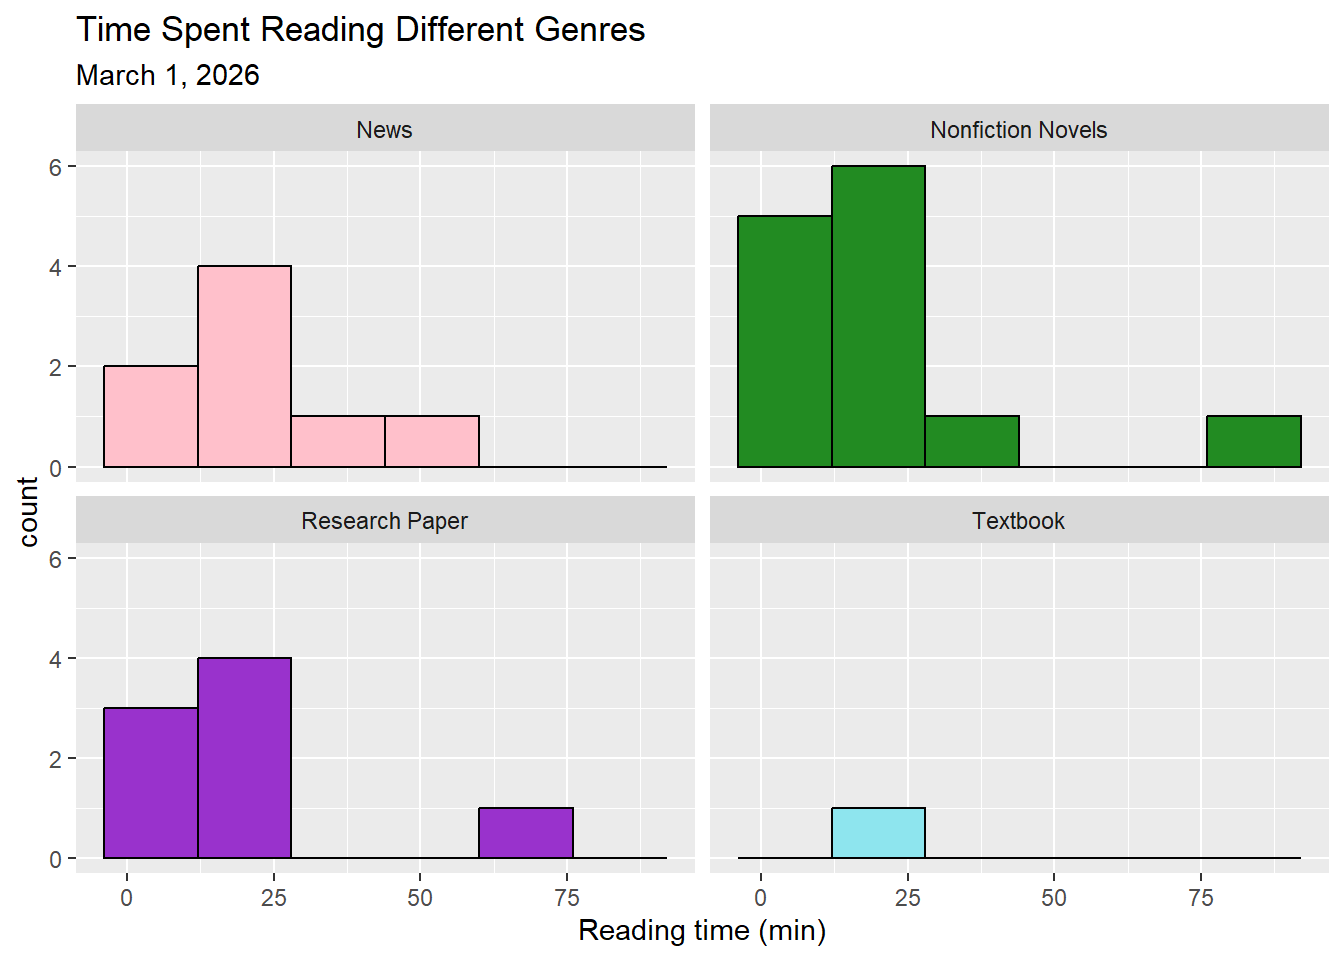
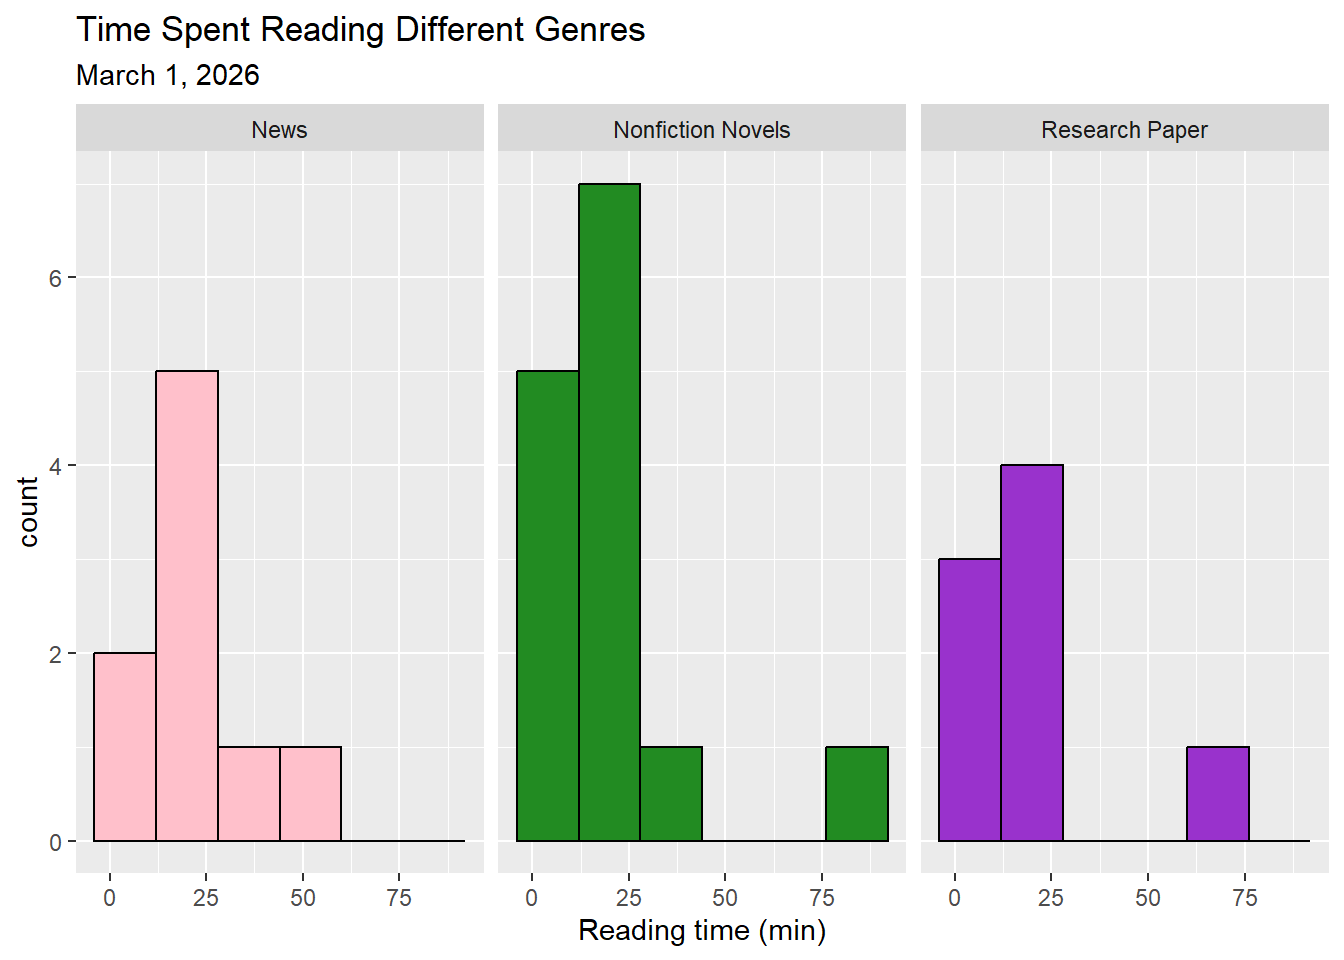
inserted sketch of affective data vis

diff --git a/code/03_homework_193DS.html b/code/03_homework_193DS.html
@@ -152,7 +152,7 @@ window.Quarto = {
 <span id="cb1-6"><a href="#cb1-6" aria-hidden="true" tabindex="-1"></a>salinity <span class="ot">&lt;-</span> <span class="fu">read.csv</span>( <span class="co">#read in pickleweed data using here function</span></span>
 <span id="cb1-7"><a href="#cb1-7" aria-hidden="true" tabindex="-1"></a>  <span class="fu">here</span>(<span class="st">"data"</span>,<span class="st">"salinity-pickleweed.csv"</span>))</span>
 <span id="cb1-8"><a href="#cb1-8" aria-hidden="true" tabindex="-1"></a>reading_data <span class="ot">&lt;-</span> <span class="fu">read.csv</span>( <span class="co">#read in personal data using here function</span></span>
-<span id="cb1-9"><a href="#cb1-9" aria-hidden="true" tabindex="-1"></a>  <span class="fu">here</span>(<span class="st">"data"</span>, <span class="st">"reading_data_envs-193DS.csv"</span>)</span>
+<span id="cb1-9"><a href="#cb1-9" aria-hidden="true" tabindex="-1"></a>  <span class="fu">here</span>(<span class="st">"data"</span>, <span class="st">"time_spent_reading.csv"</span>)</span>
 <span id="cb1-10"><a href="#cb1-10" aria-hidden="true" tabindex="-1"></a>)</span></code></pre></div><button title="Copy to Clipboard" class="code-copy-button"><i class="bi"></i></button></div>
 </div>
 <section id="part-2-problems" class="level1">
@@ -329,7 +329,7 @@ sample estimates:
 <span id="cb12-6"><a href="#cb12-6" aria-hidden="true" tabindex="-1"></a>  <span class="fu">geom_point</span>(<span class="at">size =</span> <span class="dv">3</span>) <span class="sc">+</span> <span class="co">#add in individual data and adjust size</span></span>
 <span id="cb12-7"><a href="#cb12-7" aria-hidden="true" tabindex="-1"></a>  <span class="fu">labs</span>(<span class="at">title =</span> <span class="st">"Reading session per number of pages"</span>, <span class="co">#add title</span></span>
 <span id="cb12-8"><a href="#cb12-8" aria-hidden="true" tabindex="-1"></a>       <span class="at">x =</span> <span class="st">"Number of pages"</span>, <span class="co">#set x axis title</span></span>
-<span id="cb12-9"><a href="#cb12-9" aria-hidden="true" tabindex="-1"></a>       <span class="at">y =</span> <span class="st">"Reading time"</span>,<span class="co">#set y axis title</span></span>
+<span id="cb12-9"><a href="#cb12-9" aria-hidden="true" tabindex="-1"></a>       <span class="at">y =</span> <span class="st">"Reading time (min)"</span>,<span class="co">#set y axis title</span></span>
 <span id="cb12-10"><a href="#cb12-10" aria-hidden="true" tabindex="-1"></a>       <span class="at">subtitle =</span> <span class="st">"March 1, 2026"</span>) <span class="sc">+</span> </span>
 <span id="cb12-11"><a href="#cb12-11" aria-hidden="true" tabindex="-1"></a>  <span class="fu">theme_classic</span>() <span class="sc">+</span> <span class="co">#change theme</span></span>
 <span id="cb12-12"><a href="#cb12-12" aria-hidden="true" tabindex="-1"></a>  <span class="fu">scale_color_manual</span>(<span class="at">values =</span> <span class="fu">c</span>( <span class="co">#change colors manually</span></span>
@@ -340,14 +340,38 @@ sample estimates:
 <span id="cb12-17"><a href="#cb12-17" aria-hidden="true" tabindex="-1"></a>    <span class="st">"Nonfiction Novels"</span> <span class="ot">=</span> <span class="dv">17</span>,</span>
 <span id="cb12-18"><a href="#cb12-18" aria-hidden="true" tabindex="-1"></a>    <span class="st">"Research Paper"</span> <span class="ot">=</span> <span class="dv">16</span>,</span>
 <span id="cb12-19"><a href="#cb12-19" aria-hidden="true" tabindex="-1"></a>    <span class="st">"News"</span> <span class="ot">=</span> <span class="dv">15</span>))</span></code></pre></div><button title="Copy to Clipboard" class="code-copy-button"><i class="bi"></i></button></div>
-<div class="cell-output cell-output-stderr">
-<pre><code>Warning: Removed 1 row containing missing values or values outside the scale range
-(`geom_point()`).</code></pre>
-</div>
 <div class="cell-output-display">
 <div>
 <figure class="figure">
 <p><img src="03_homework_193DS_files/figure-html/creating%20graphs-2.png" class="img-fluid figure-img" width="672"></p>
+</figure>
+</div>
+</div>
+</div>
+</section>
+<section id="b.-captions" class="level3">
+<h3 class="anchored" data-anchor-id="b.-captions">b. Captions</h3>
+<p>Figure 1. Nonfiction novels consume the most reading time. Data was collected by the author. Bars represent</p>
+<p>Figure 2. As the number of pages increases, reading time also increases. Points represent individual reading sessions with time of session (min) and number of pages recorded. Colors and shape represent the three types of reading genres (coral squares: News, green triangle: Nonfiction Novels, and blue circles: Research Papers).</p>
+</section>
+</section>
+<section id="problem-3.-affective-visulization" class="level1">
+<h1>Problem 3. Affective visulization</h1>
+<section id="a.-describe-in-words-what-an-affective-visualization-could-look-like-for-your-personal-data-3-5-sentences." class="level3">
+<h3 class="anchored" data-anchor-id="a.-describe-in-words-what-an-affective-visualization-could-look-like-for-your-personal-data-3-5-sentences.">a. Describe in words what an affective visualization could look like for your personal data (3-5 sentences).</h3>
+<p>For my personal data project I will paint the outer pages of a book different colors based on the genre and time spent reading each genre. To start I will sum the total reading time and compare that to the total number of pages in a book I buy to create a ratio of pages to minutes read. I can then determine how many pages I need to paint and what color to paint them. The final version of the visualization will be a book with fore-edge painting based on the amount of time I spent reading each genre. You should be able to visually tell relative time spent reading each genre and how the abundance changed over time.</p>
+</section>
+<section id="b.-create-a-sketch-on-paper-of-your-idea." class="level3">
+<h3 class="anchored" data-anchor-id="b.-create-a-sketch-on-paper-of-your-idea.">b. Create a sketch (on paper) of your idea.</h3>
+</section>
+<section id="b." class="level3">
+<h3 class="anchored" data-anchor-id="b.">b.</h3>
+<div class="cell">
+<div class="code-copy-outer-scaffold"><div class="sourceCode cell-code" id="cb13"><pre class="sourceCode r code-with-copy"><code class="sourceCode r"><span id="cb13-1"><a href="#cb13-1" aria-hidden="true" tabindex="-1"></a>knitr<span class="sc">::</span><span class="fu">include_graphics</span>(<span class="st">"data_vis_sketch.jpeg"</span>)</span></code></pre></div><button title="Copy to Clipboard" class="code-copy-button"><i class="bi"></i></button></div>
+<div class="cell-output-display">
+<div>
+<figure class="figure">
+<p><img src="data_vis_sketch.jpeg" class="img-fluid figure-img"></p>
 </figure>
 </div>
 </div>
